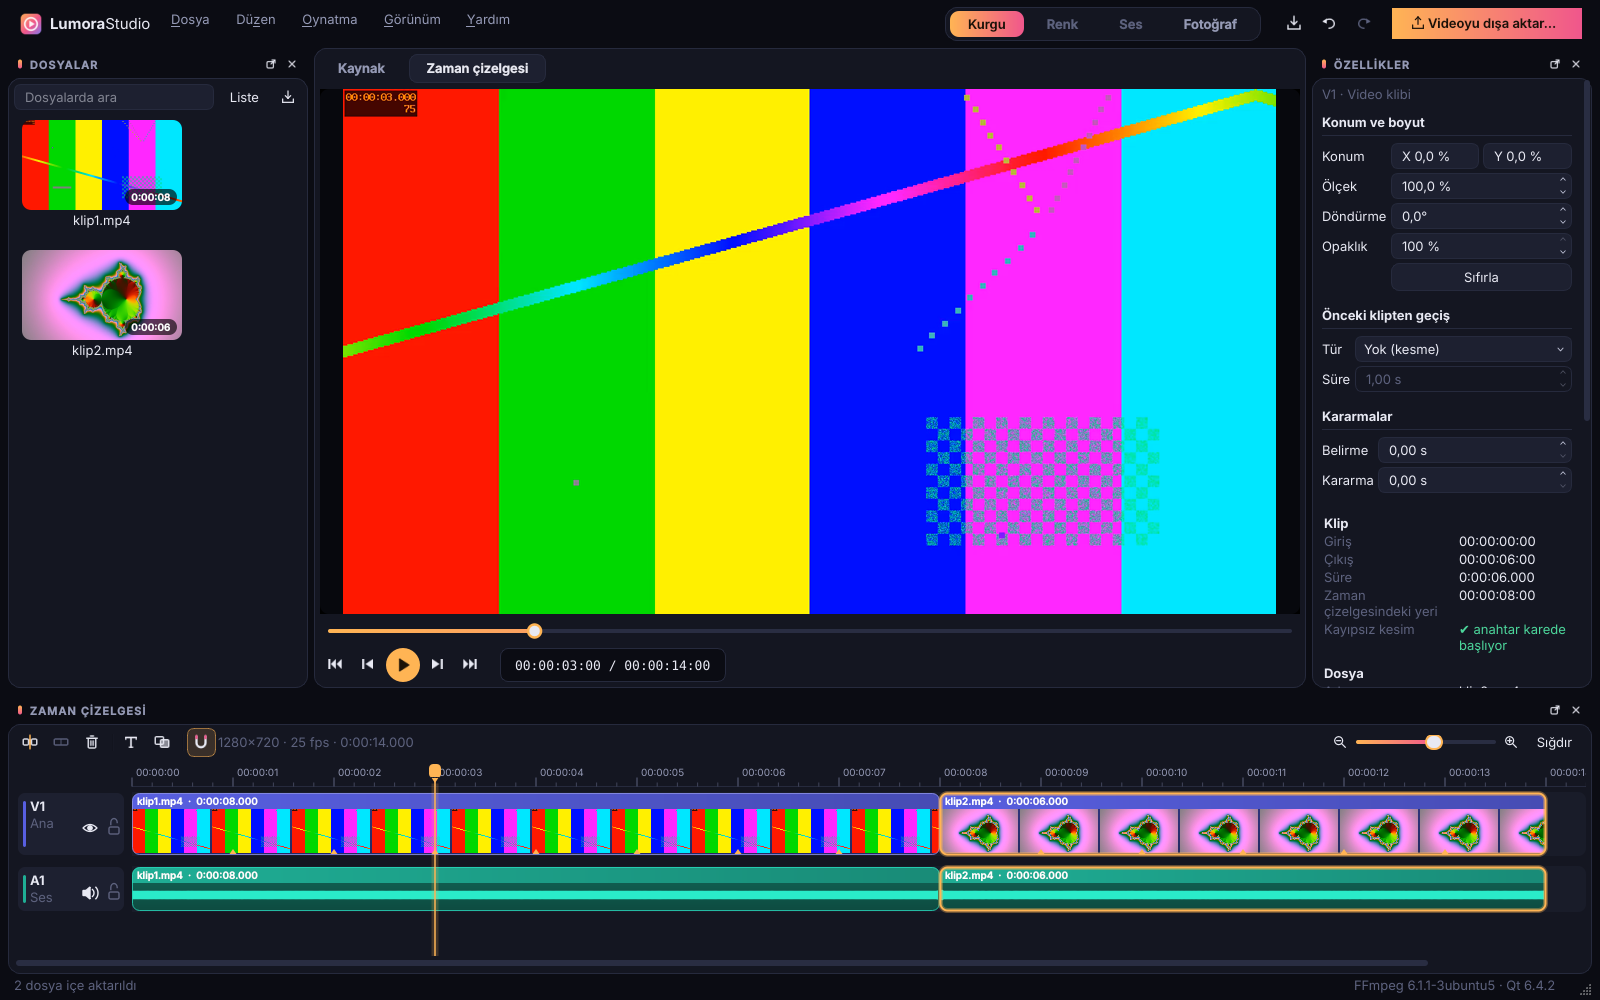
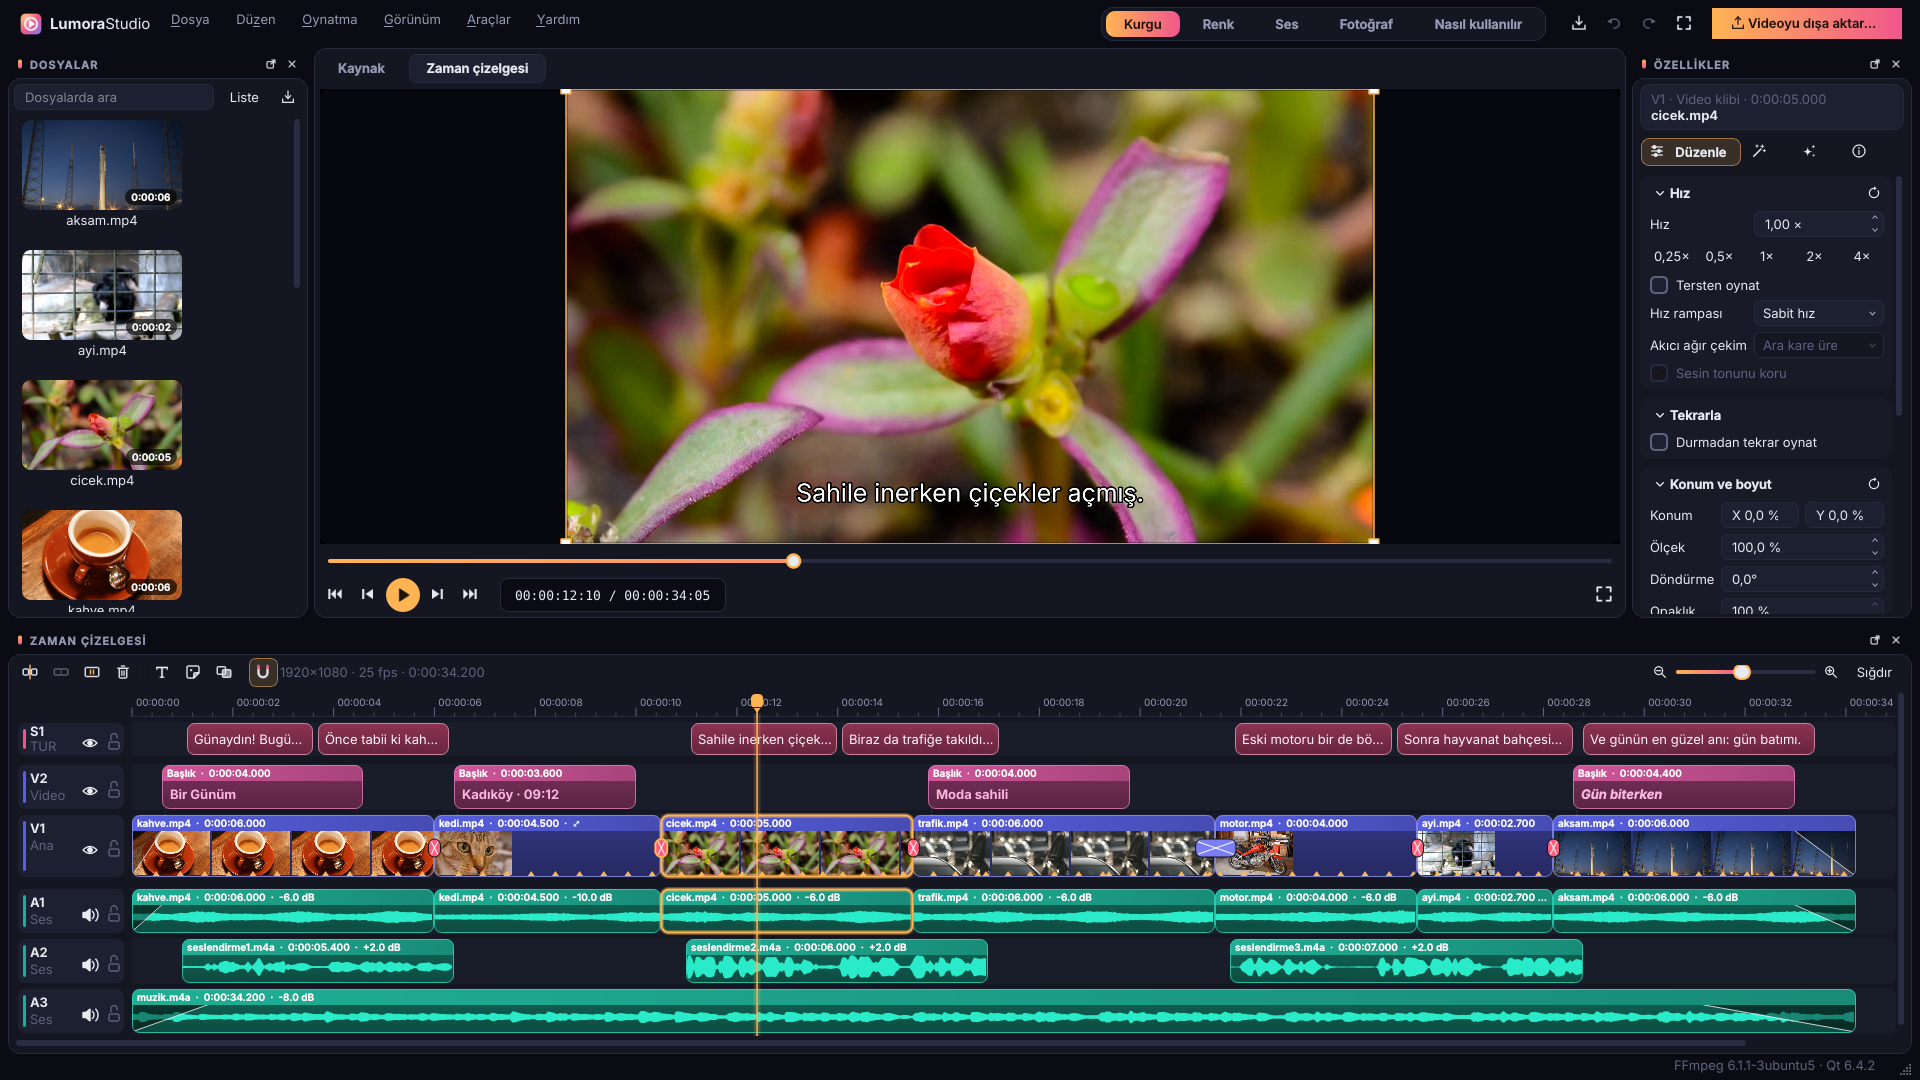
README: new showcase images and a vlog editing screenshot

diff --git a/README.md b/README.md
@@ -6,15 +6,23 @@
 - Yeniden kodlamak gerekiyorsa "kaynakla aynı" seçeneği kodek, çözünürlük, kare hızı, bit derinliği, renk ve bit hızını kaynaktan alır.
 - Fotoğraflarda orijinal dosyaya asla yazılmaz; ayarlar projede saklanır, dışa aktarırken 32 bit kayan noktada hesaplanıp kayıpsız kaydedilir.
 
+<p align="center">
+  <img src="docs/tanitim/kapak.png" width="49%" alt="LumoraStudio: video ve fotoğraf düzenleme, ücretsiz, tamamen yerel">
+  <img src="docs/tanitim/kurgu.png" width="49%" alt="Bütün vlog, tek ekranda">
+</p>
+
+Bir vlog kurgusu, kurgu çalışma alanında: görüntü, kamera sesi, seslendirme ve müzik ayrı kanallarda; başlıklar, altyazılar, geçişler ve renk ayarı klip klip.
+
 ![Kurgu çalışma alanı](docs/screenshots/kurgu.png)
 
-| Renk | Fotoğraf katmanları |
-|---|---|
-| ![Renk çalışma alanı](docs/screenshots/renk.png) | ![Fotoğraf katmanları ve maske](docs/screenshots/katmanlar.png) |
-
-| Dışa aktarma | Fotoğraf |
-|---|---|
-| ![Dışa aktarma penceresi](docs/screenshots/disa-aktar.png) | ![Fotoğraf çalışma alanı](docs/screenshots/fotograf.png) |
+<p align="center">
+  <img src="docs/tanitim/kalite.png" width="49%" alt="Kalite, siz istemedikçe düşmez">
+  <img src="docs/tanitim/yapay-zeka.png" width="49%" alt="Yapay zekâ, kendi bilgisayarında">
+</p>
+<p align="center">
+  <img src="docs/tanitim/renk-fotograf.png" width="49%" alt="Renk ve fotoğrafta tam kontrol">
+  <img src="docs/tanitim/altyazi-ceviri.png" width="49%" alt="Altyazını başka dile çevir">
+</p>
 
 Açık tema ("Gündüz", Görünüm → Tema):
 
